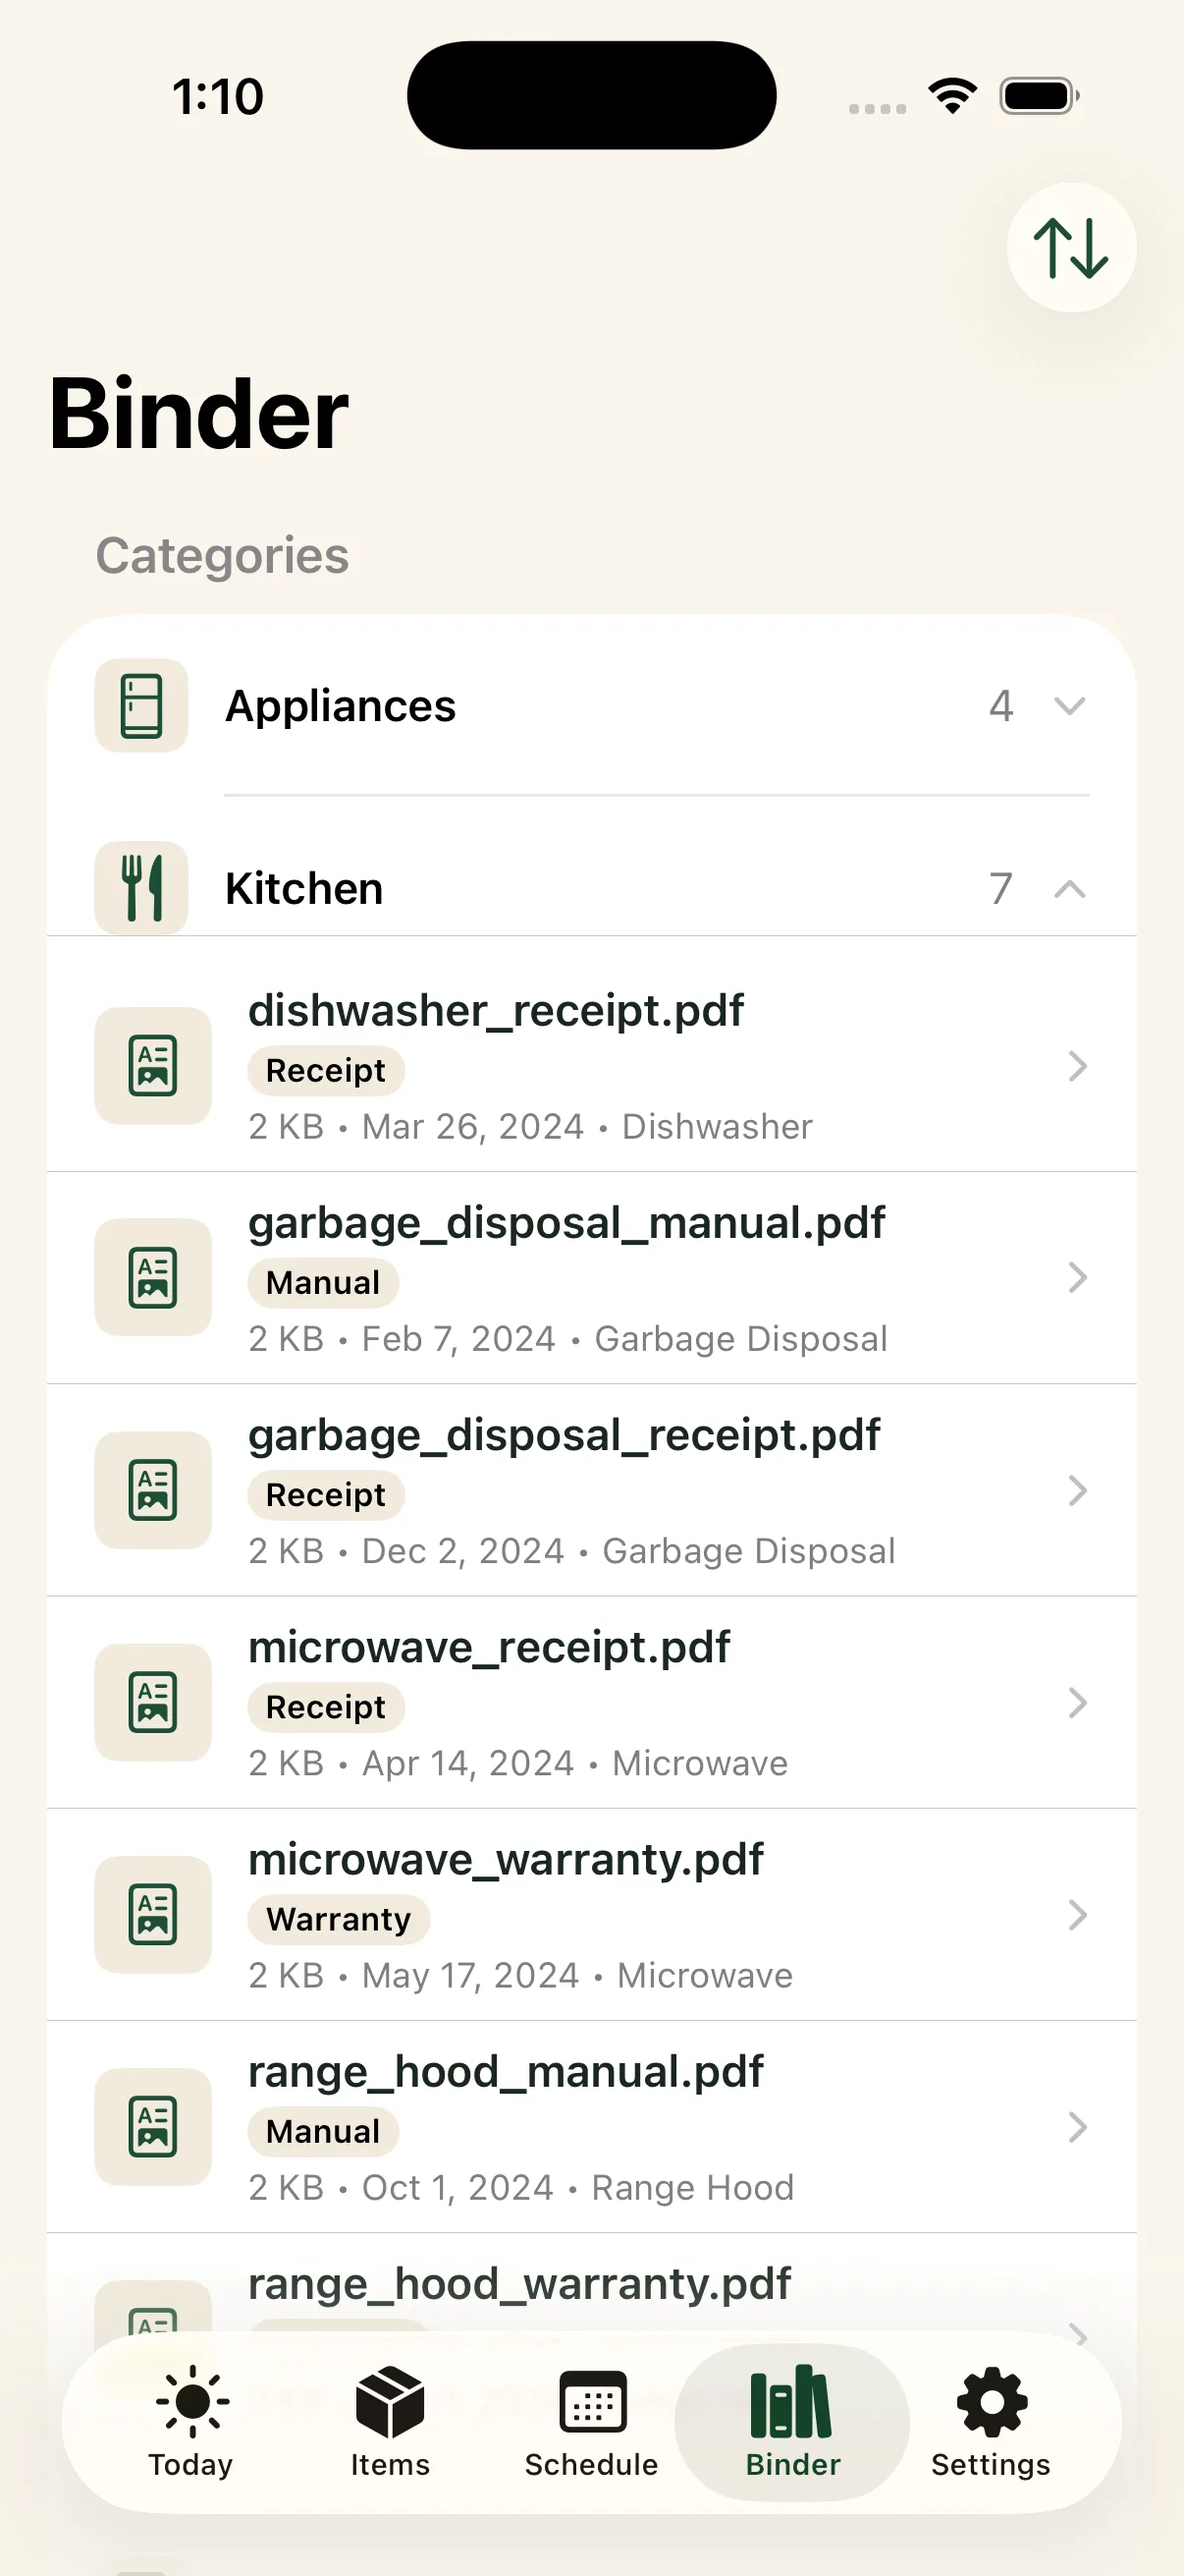
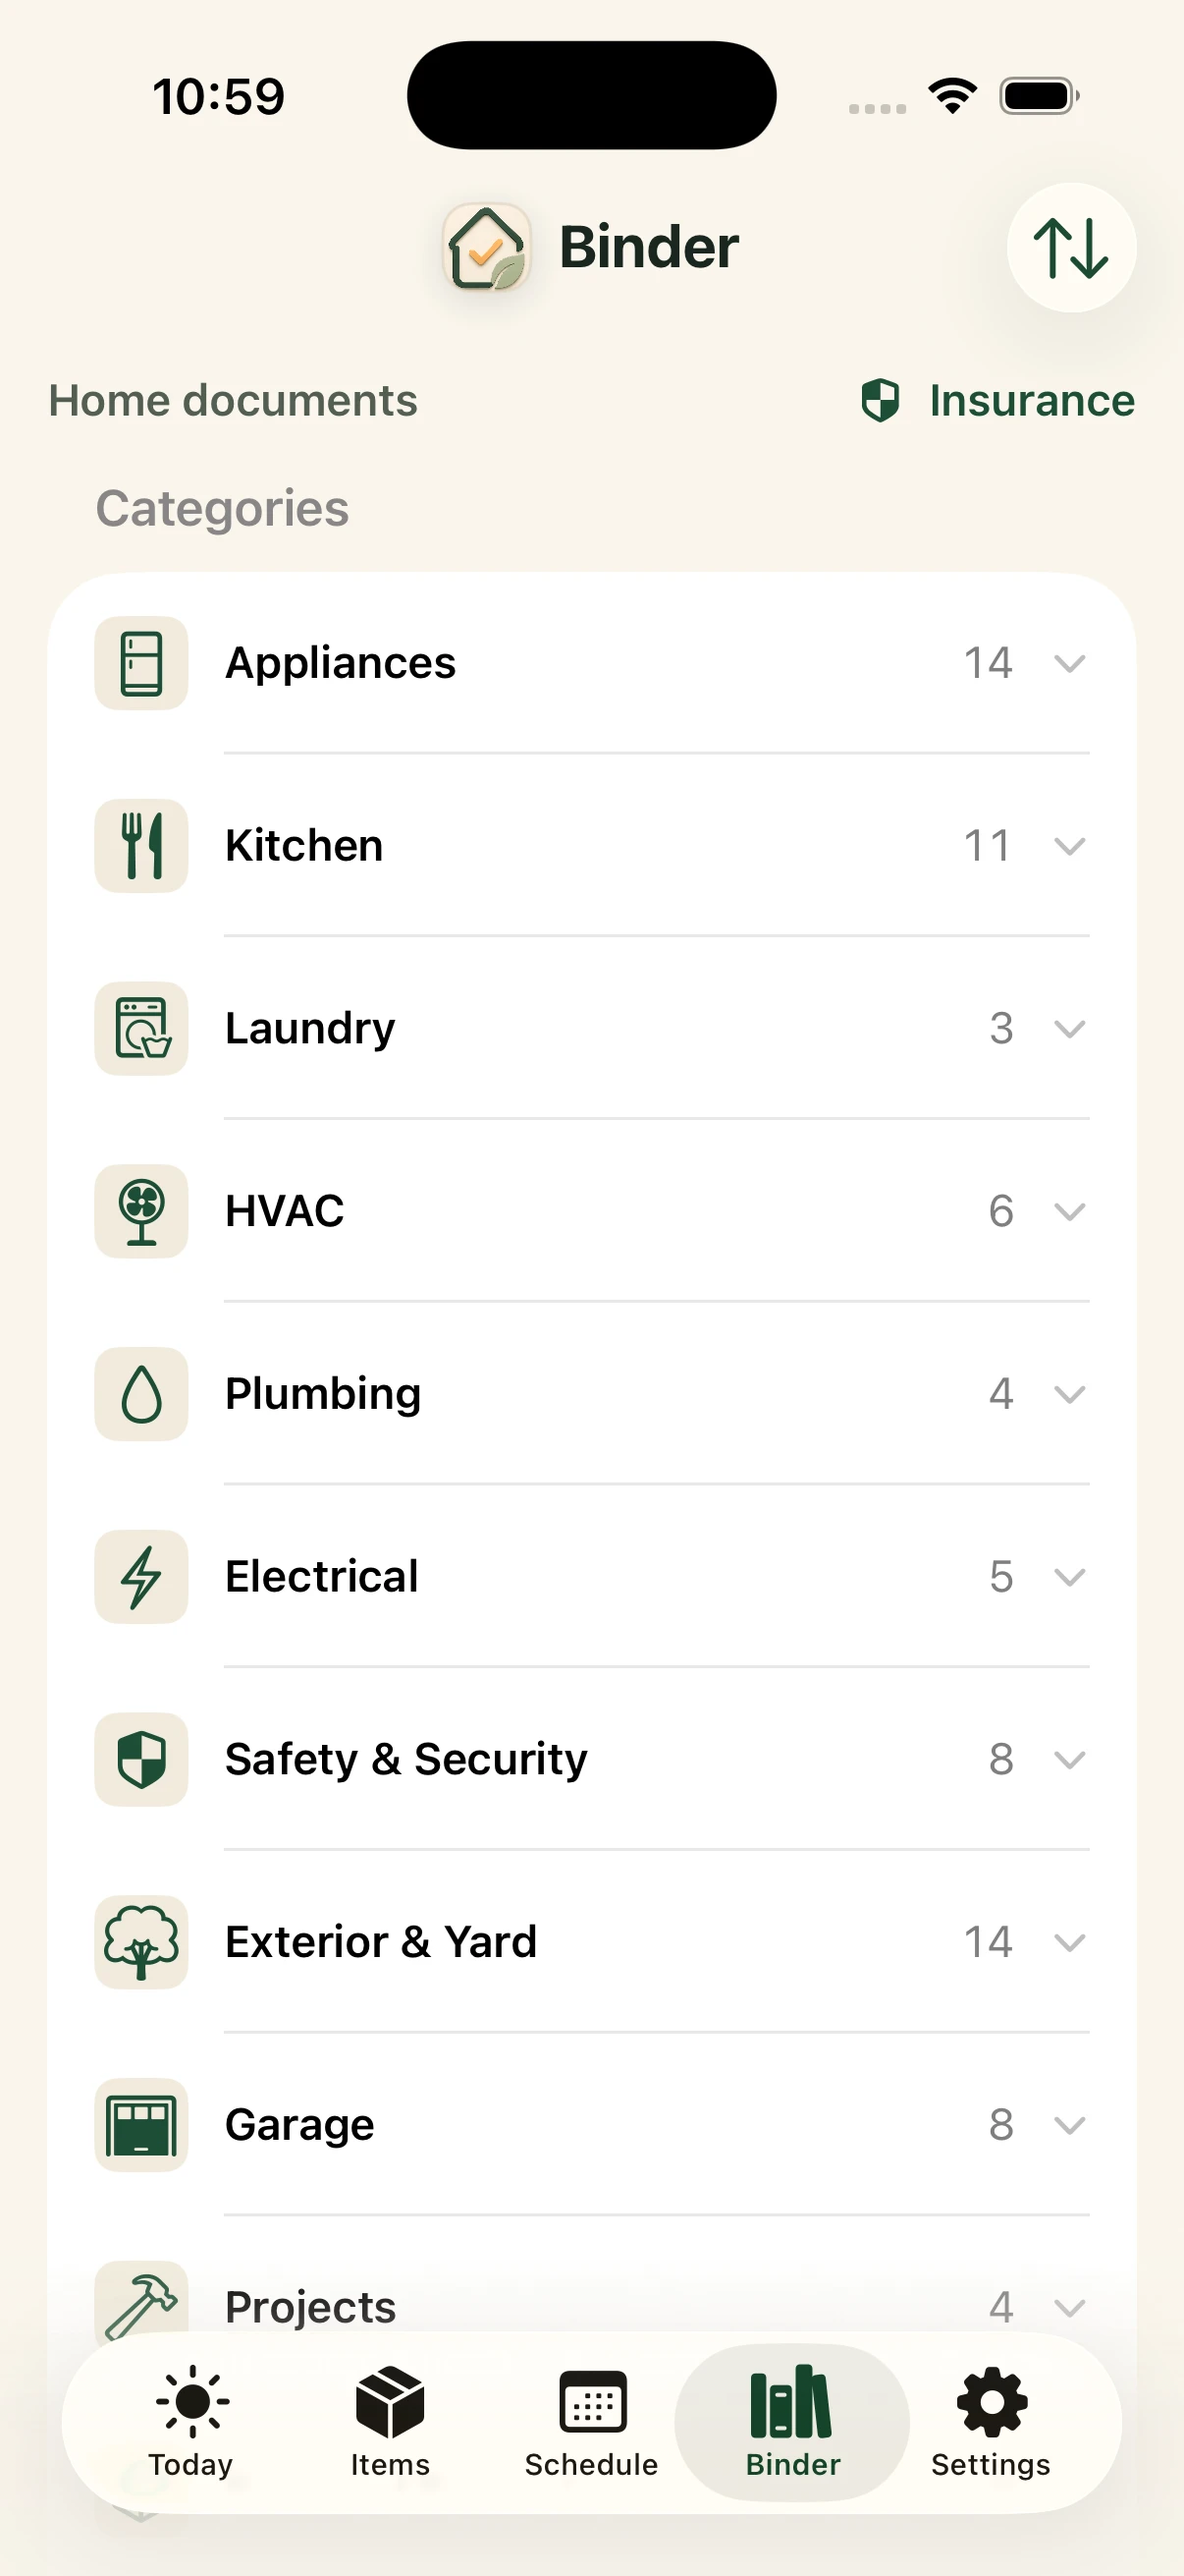
new screenshots

diff --git a/src/styles/global.css b/src/styles/global.css
@@ -214,7 +214,7 @@ h3 { font-size: 21px; }
 .footer { padding: 54px 0; border-top: 1px solid var(--line); color: var(--muted); }
 .footer-grid { display: grid; grid-template-columns: 1.4fr repeat(3, 1fr); gap: 24px; }
 .footer h4 { color: var(--ink); margin: 0 0 12px; }
-.footer a { display: block; margin: 7px 0; }
+.footer-grid a { display: block; margin: 7px 0; }
 .footer .brand { display: inline-flex; }
 
 .legal-page { padding: 72px 0; }
